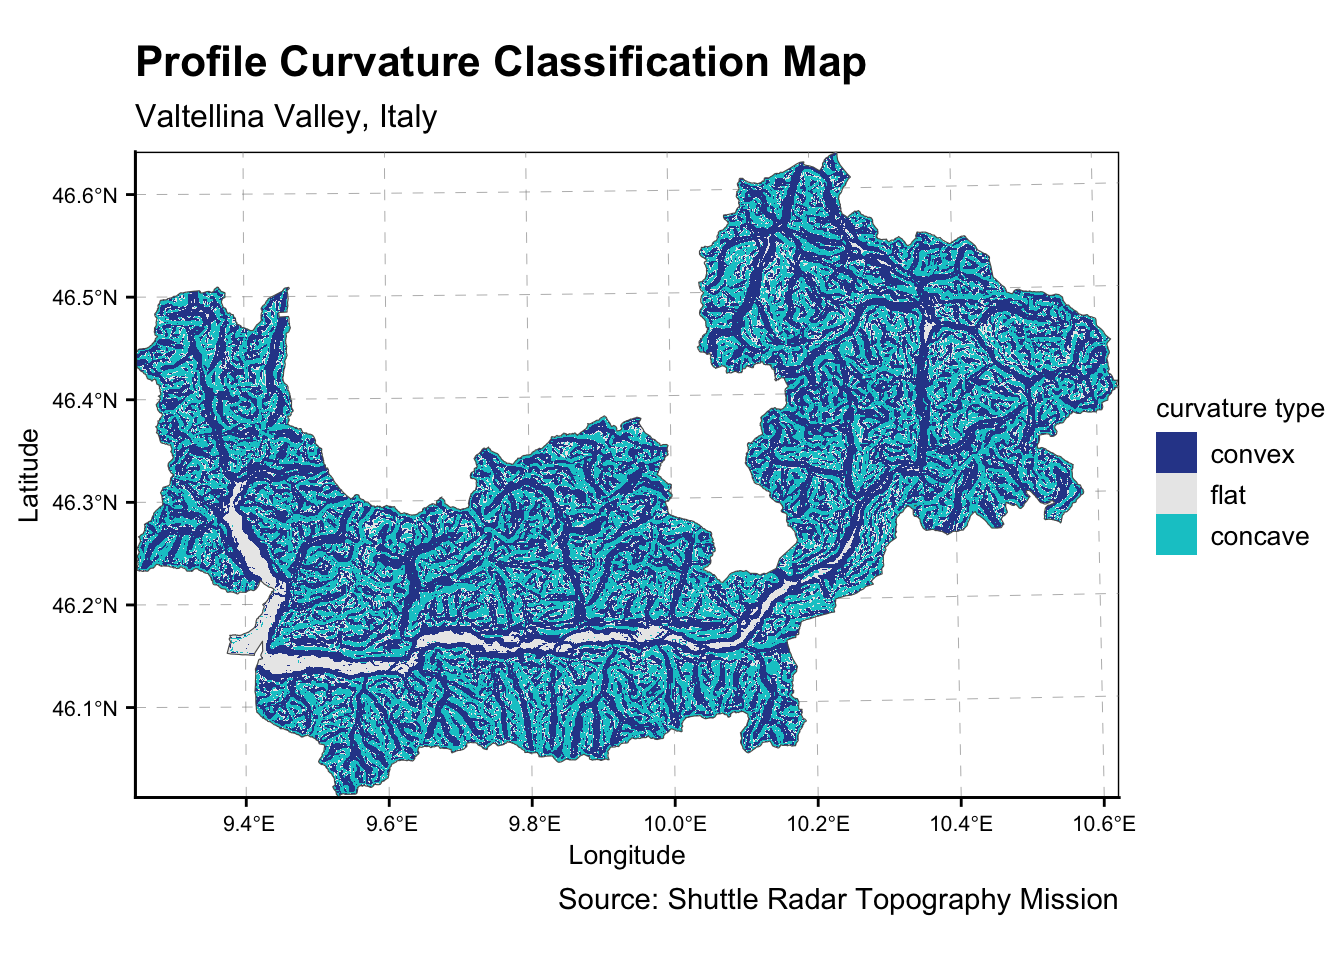
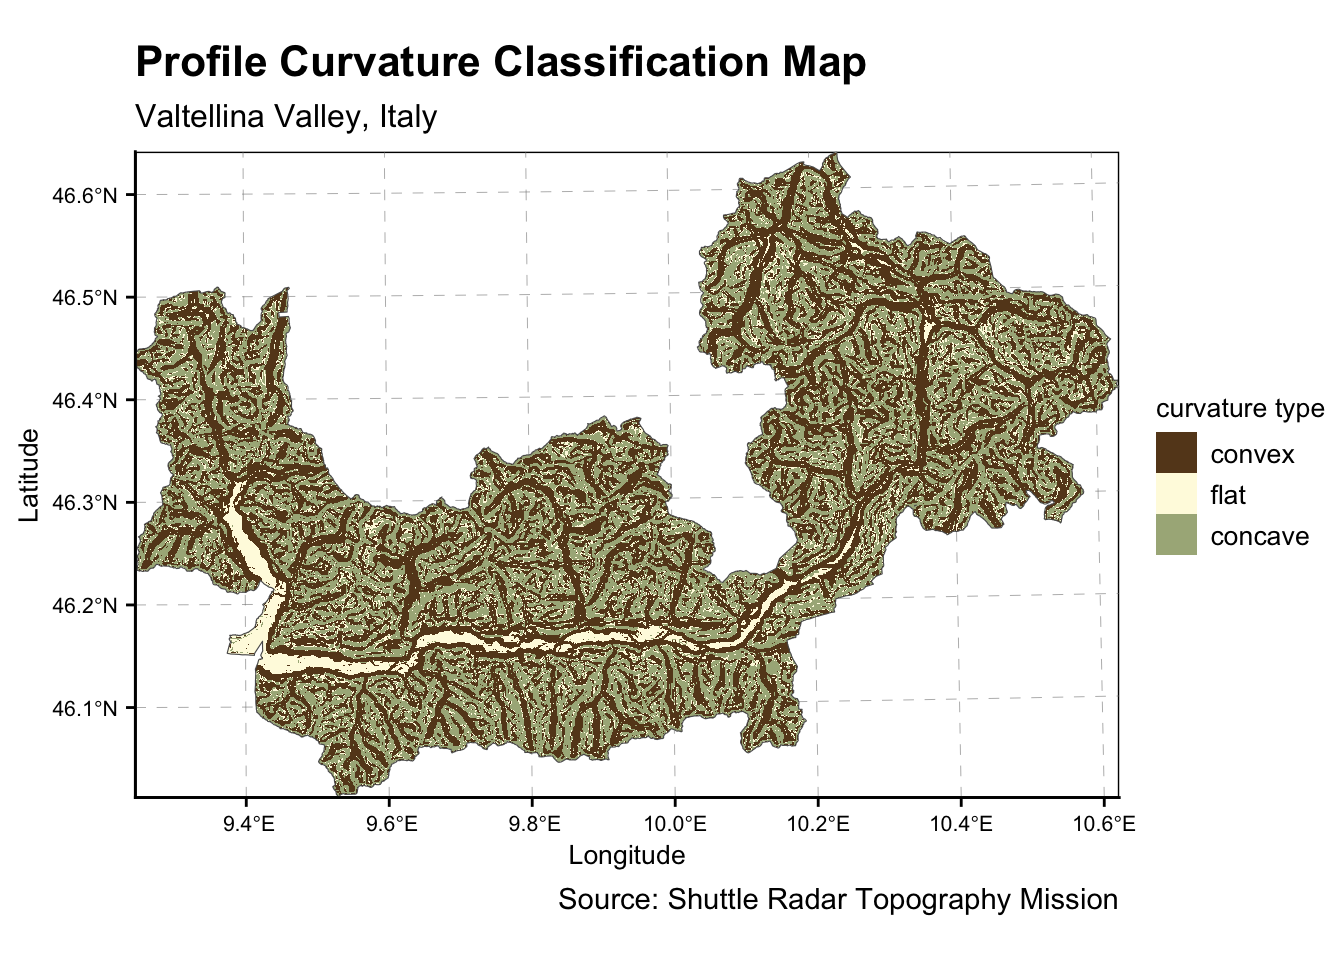
changed visualisations

Changed region(s): [[0.0938, 0.1562, 0.8438, 0.8438], [0.8438, 0.4375, 0.9062, 0.5938]]

diff --git a/_site/project.html b/_site/project.html
@@ -200,7 +200,7 @@ pre > code.sourceCode > span > a:first-child::before { text-decoration: underlin
     <div>
     <div class="quarto-title-meta-heading">Modified</div>
     <div class="quarto-title-meta-contents">
-      <p class="date-modified">January 9, 2024</p>
+      <p class="date-modified">January 10, 2024</p>
     </div>
   </div>
     
@@ -437,13 +437,13 @@ pre > code.sourceCode > span > a:first-child::before { text-decoration: underlin
 <span id="cb12-8"><a href="#cb12-8" aria-hidden="true" tabindex="-1"></a>profile_classifed_df <span class="ot">&lt;-</span> <span class="fu">as.data.frame</span>(profile_classifed,<span class="at">xy=</span><span class="cn">TRUE</span>)<span class="sc">%&gt;%</span><span class="fu">drop_na</span>()</span>
 <span id="cb12-9"><a href="#cb12-9" aria-hidden="true" tabindex="-1"></a>profile_codes <span class="ot">&lt;-</span> <span class="fu">unique</span>(profile_classifed_df[<span class="st">"profile_curvature_cat"</span>])</span>
 <span id="cb12-10"><a href="#cb12-10" aria-hidden="true" tabindex="-1"></a>profile_names <span class="ot">&lt;-</span><span class="fu">c</span>(<span class="st">"convex"</span>, <span class="st">"flat"</span>, <span class="st">"concave"</span>)</span>
-<span id="cb12-11"><a href="#cb12-11" aria-hidden="true" tabindex="-1"></a>profile_colors <span class="ot">&lt;-</span><span class="fu">c</span>(<span class="st">"#2f4798"</span>,<span class="st">"#e9e9e9"</span>,<span class="st">"#00c8cd"</span>)</span>
+<span id="cb12-11"><a href="#cb12-11" aria-hidden="true" tabindex="-1"></a>profile_colors <span class="ot">&lt;-</span><span class="fu">c</span>(<span class="st">"#65451F"</span>,<span class="st">"#FEFAE0"</span>,<span class="st">"#A9B388"</span>)</span>
 <span id="cb12-12"><a href="#cb12-12" aria-hidden="true" tabindex="-1"></a></span>
 <span id="cb12-13"><a href="#cb12-13" aria-hidden="true" tabindex="-1"></a>plan_classifed <span class="ot">&lt;-</span> <span class="fu">reclassify</span>(plan_c,reclass_m)</span>
 <span id="cb12-14"><a href="#cb12-14" aria-hidden="true" tabindex="-1"></a>plan_classifed_df <span class="ot">&lt;-</span> <span class="fu">as.data.frame</span>(plan_classifed,<span class="at">xy=</span><span class="cn">TRUE</span>)<span class="sc">%&gt;%</span><span class="fu">drop_na</span>()</span>
 <span id="cb12-15"><a href="#cb12-15" aria-hidden="true" tabindex="-1"></a>plan_codes <span class="ot">&lt;-</span> <span class="fu">unique</span>(plan_classifed_df[<span class="st">"plan_curvature_cat"</span>])</span>
 <span id="cb12-16"><a href="#cb12-16" aria-hidden="true" tabindex="-1"></a>plan_names <span class="ot">&lt;-</span><span class="fu">c</span>(<span class="st">"concave"</span>, <span class="st">"flat"</span>, <span class="st">"convex"</span>)</span>
-<span id="cb12-17"><a href="#cb12-17" aria-hidden="true" tabindex="-1"></a>plan_colors <span class="ot">&lt;-</span><span class="fu">c</span>(<span class="st">"#2f4798"</span>,<span class="st">"#e9e9e9"</span>,<span class="st">"#00c8cd"</span>)</span>
+<span id="cb12-17"><a href="#cb12-17" aria-hidden="true" tabindex="-1"></a>plan_colors <span class="ot">&lt;-</span><span class="fu">c</span>(<span class="st">"#65451F"</span>,<span class="st">"#FEFAE0"</span>,<span class="st">"#A9B388"</span>)</span>
 <span id="cb12-18"><a href="#cb12-18" aria-hidden="true" tabindex="-1"></a></span>
 <span id="cb12-19"><a href="#cb12-19" aria-hidden="true" tabindex="-1"></a><span class="fu">ggplot</span>(<span class="at">data=</span>profile_classifed_df)<span class="sc">+</span></span>
 <span id="cb12-20"><a href="#cb12-20" aria-hidden="true" tabindex="-1"></a>  <span class="fu">geom_raster</span>(<span class="fu">aes</span>(<span class="at">x=</span>x,<span class="at">y=</span>y,<span class="at">fill=</span><span class="fu">as.character</span>(profile_curvature_cat)))<span class="sc">+</span></span>
